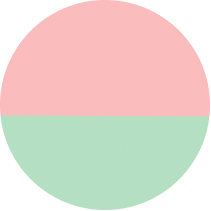
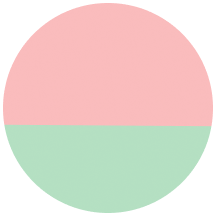
Centered circles in chart

Changed region(s): [[0.0, 0.0, 0.9953, 0.91], [0.2275, 0.91, 0.7678, 0.9953], [0.0853, 0.7678, 0.2275, 0.91]]

diff --git a/web/src/components/GovernmentChart/Government.js b/web/src/components/GovernmentChart/Government.js
@@ -20,7 +20,7 @@ export default class Government {
 
     var margin = { top: 10, right: 10, buttom: 10, left: 10 },
       width = 365,
-      height = 260,
+      height = 270,
       isHighlighted = 1;
 
     var svg = d3
@@ -29,7 +29,7 @@ export default class Government {
       .attr("height", height)
       .attr("width", width)
       .append("g")
-      .attr("transform", "translate(175,60)");
+      .attr("transform", "translate(178,70)");
 
     const circles = svg.selectAll("circle")
       .data(data);
